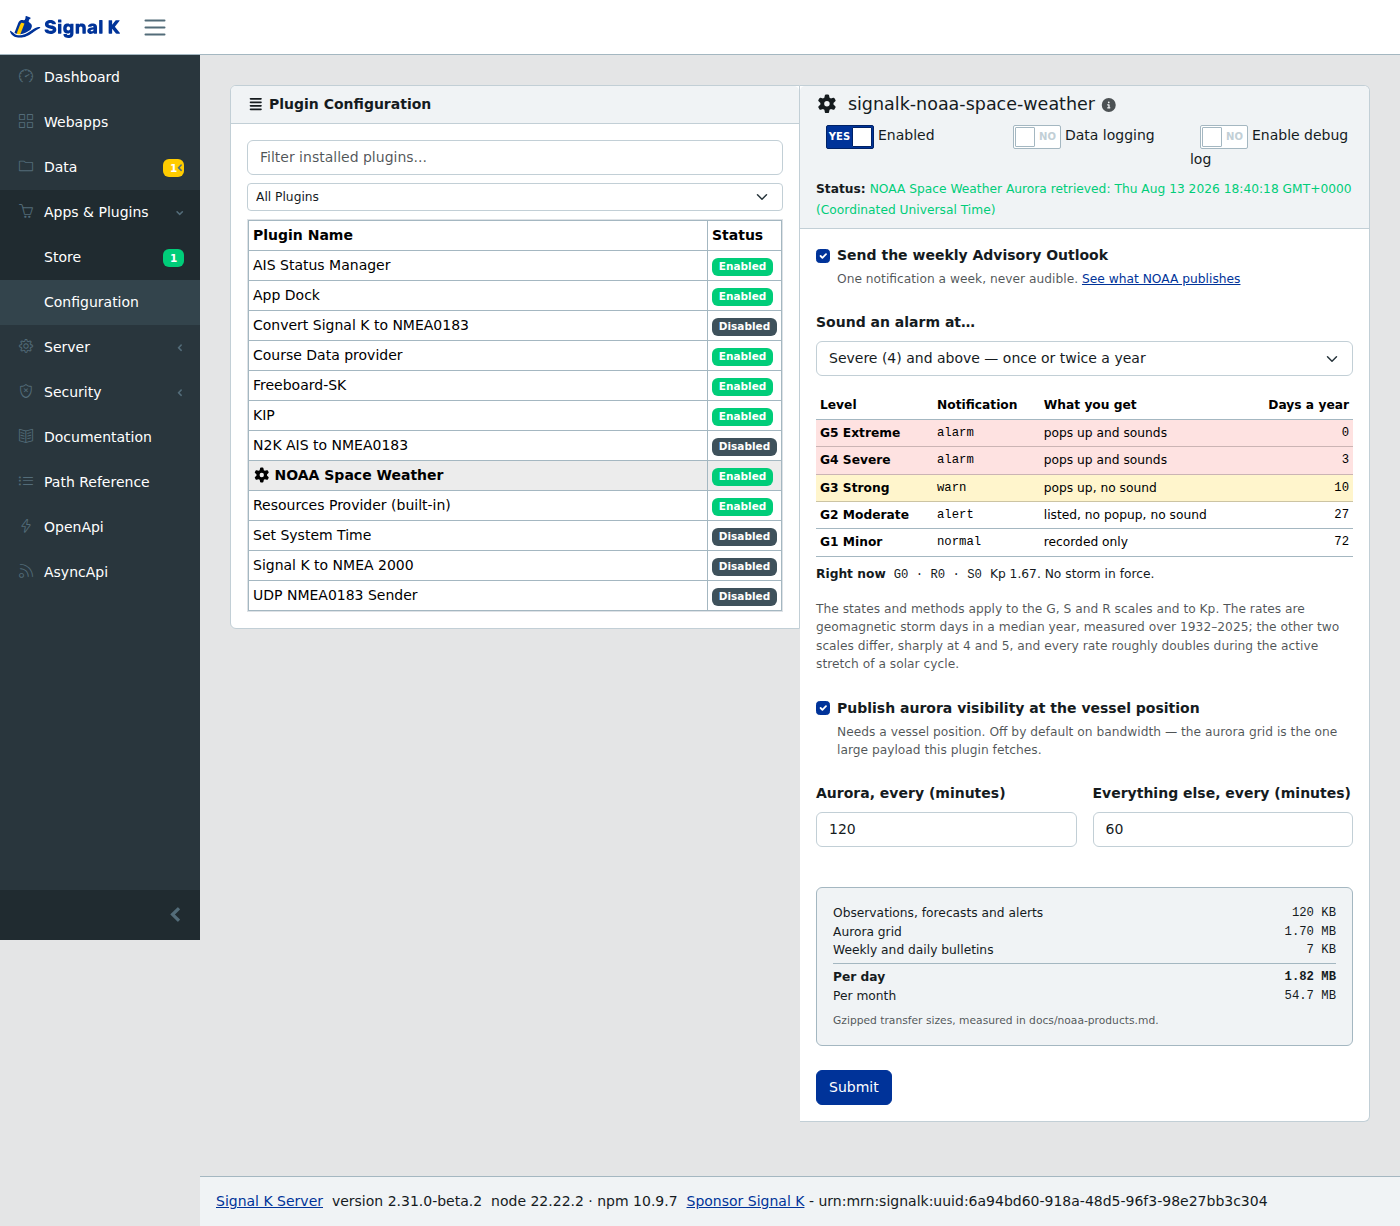
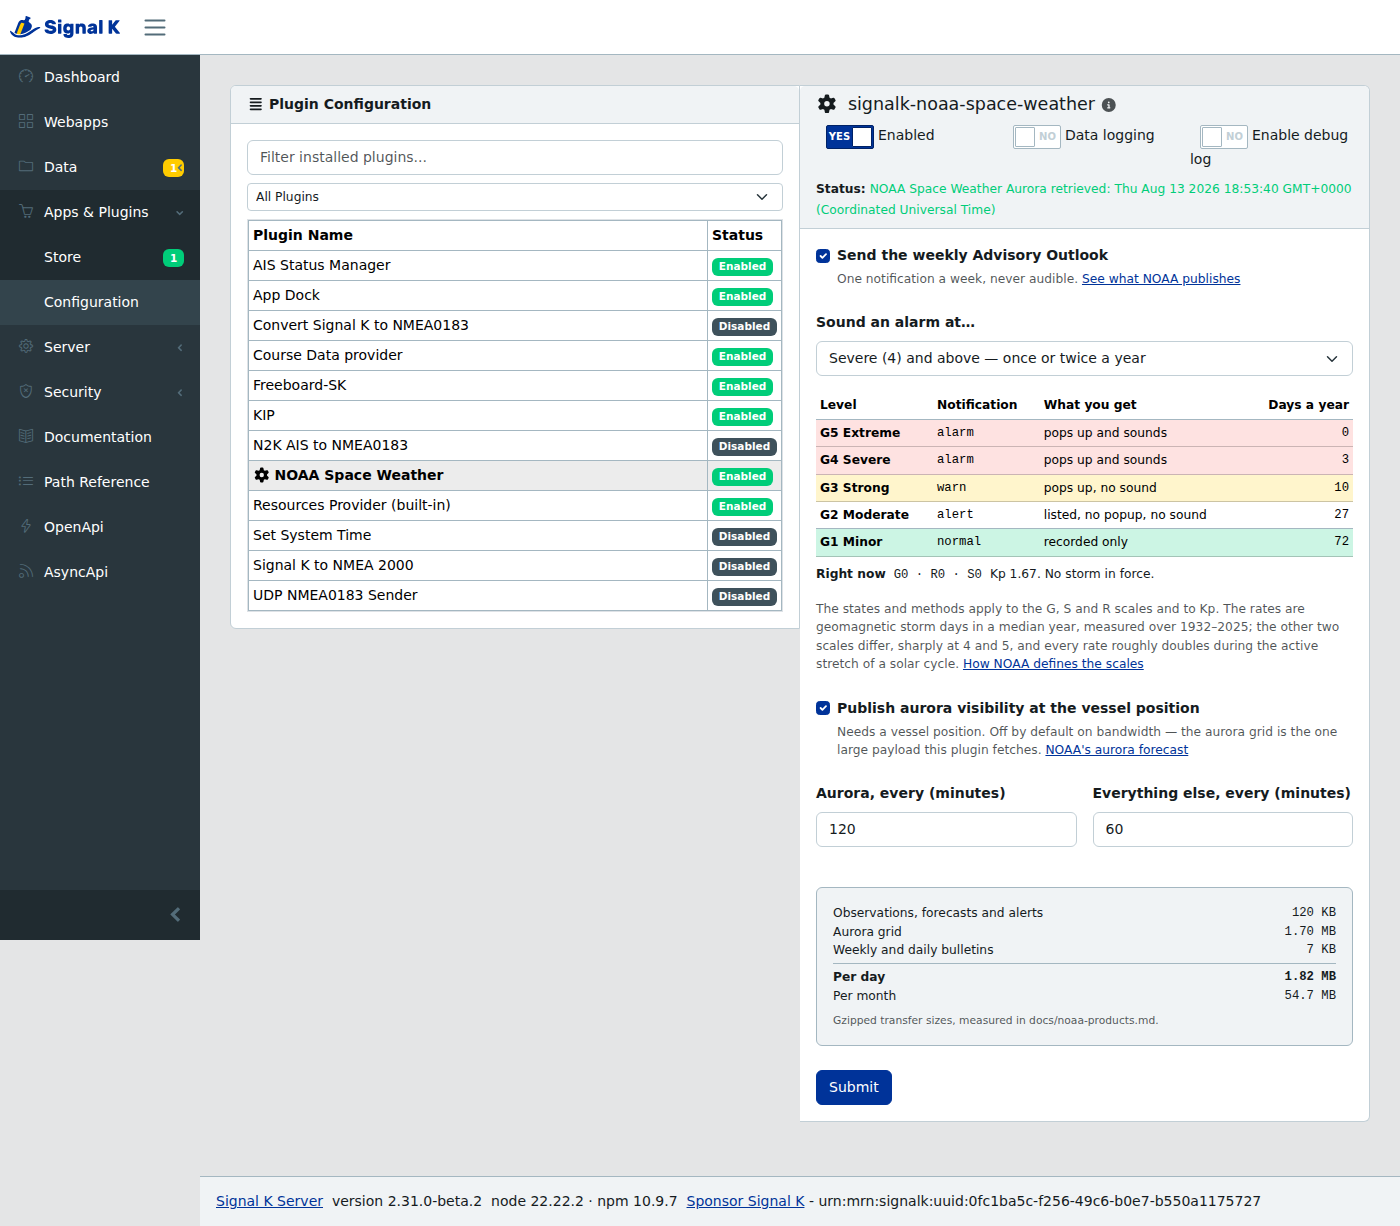
feat(config): link NOAA's own pages, and green the quiet rows
Three settings now say where the thing they control comes from: the
advisory outlook already linked NOAA's bulletin page, and the alarm
ladder and the aurora checkbox now link the scales explanation and the
aurora forecast. All three go through one component, all three to the
human-facing spaceweather.gov pages rather than the machine feeds under
services.*, matching the split the rest of the repo already uses.

The `normal` rows go green. They were grey, which reads as "disabled"
when what they actually mean is "seen, written down, deliberately quiet"
-- at the default alarm level that is G1 and G2, a quarter of all days,
and the reader should be able to tell at a glance that nothing is wrong
with them.

Also corrects the one illustrative figure still in the changelog: adding
the bulletins row moved the fifteen-minute example from 13.6 MB a day to
13.7, and 411 MB a month to 411.5. Computed from `dailyKb`, not rounded
by hand.

diff --git a/public/remoteEntry.js b/public/remoteEntry.js
@@ -53,6 +53,12 @@ const KP_URL = `${API}/vessels/self/environment/noaa/swpc/kp`
 // checkbox can show what it is offering rather than only naming it.
 const ADVISORY_OUTLOOK_URL =
   'https://www.spaceweather.gov/products/space-weather-advisory-outlook'
+// NOAA's own explanation of the G/S/R scales the ladder is built on, and of
+// the aurora forecast behind the grid. Both are the human-facing
+// spaceweather.gov pages rather than the machine feeds under services.*.
+const NOAA_SCALES_URL = 'https://www.spaceweather.gov/noaa-scales-explanation'
+const AURORA_URL =
+  'https://www.spaceweather.gov/communities/aurora-dashboard-experimental'
 
 let React = null
 
@@ -132,6 +138,10 @@ function createPanel(React) {
       help && h('div', { className: 'form-text' }, help)
     )
 
+  /** A link out to NOAA, opened away from the admin UI. */
+  const NoaaLink = ({ href, text }) =>
+    h('a', { href, target: '_blank', rel: 'noopener noreferrer' }, text)
+
   const Check = ({ id, checked, onChange, label, help }) =>
     h(
       'div',
@@ -156,8 +166,11 @@ function createPanel(React) {
     alarm: 'table-danger',
     warn: 'table-warning',
     alert: '',
-    normal: 'text-body-secondary',
-    nominal: 'text-body-secondary'
+    // Green for the rows that do nothing but get written down. It reads as
+    // "fine" rather than as "greyed out", which is what these levels are: a
+    // storm the plugin saw and deliberately stayed quiet about.
+    normal: 'table-success',
+    nominal: 'table-success'
   }
 
   /**
@@ -389,15 +402,10 @@ function createPanel(React) {
           'span',
           null,
           'One notification a week, never audible. ',
-          h(
-            'a',
-            {
-              href: ADVISORY_OUTLOOK_URL,
-              target: '_blank',
-              rel: 'noopener noreferrer'
-            },
-            'See what NOAA publishes'
-          )
+          h(NoaaLink, {
+            href: ADVISORY_OUTLOOK_URL,
+            text: 'See what NOAA publishes'
+          })
         )
       }),
 
@@ -406,12 +414,19 @@ function createPanel(React) {
         {
           label: 'Sound an alarm at…',
           htmlFor: 'noaa-alarm-level',
-          help:
+          help: h(
+            'span',
+            null,
             'The states and methods apply to the G, S and R scales and to Kp.' +
-            ' The rates are geomagnetic storm days in a median year, measured' +
-            ' over 1932–2025; the other two scales differ, sharply at 4 and 5,' +
-            ' and every rate roughly doubles during the active stretch of a' +
-            ' solar cycle.'
+              ' The rates are geomagnetic storm days in a median year,' +
+              ' measured over 1932–2025; the other two scales differ, sharply' +
+              ' at 4 and 5, and every rate roughly doubles during the active' +
+              ' stretch of a solar cycle. ',
+            h(NoaaLink, {
+              href: NOAA_SCALES_URL,
+              text: 'How NOAA defines the scales'
+            })
+          )
         },
         h(
           'div',
@@ -446,9 +461,13 @@ function createPanel(React) {
         checked: settings.auroraEnabled,
         onChange: (value) => set('auroraEnabled', value),
         label: 'Publish aurora visibility at the vessel position',
-        help:
-          'Needs a vessel position. Off by default on bandwidth — the' +
-          ' aurora grid is the one large payload this plugin fetches.'
+        help: h(
+          'span',
+          null,
+          'Needs a vessel position. Off by default on bandwidth — the aurora' +
+            ' grid is the one large payload this plugin fetches. ',
+          h(NoaaLink, { href: AURORA_URL, text: "NOAA's aurora forecast" })
+        )
       }),
 
       h(

diff --git a/CHANGELOG.md b/CHANGELOG.md
@@ -18,14 +18,17 @@ observe, so internal plumbing lands in a patch even when it adds something.
   the screen can now compute, and that it is laid out for the reading rather
   than for the schema. The weekly Advisory Outlook leads, since it is the one
   choice that needs no arithmetic, and its label links NOAA's own page so a
-  bulletin can be read before deciding to receive them.
+  bulletin can be read before deciding to receive them. The alarm ladder and
+  the aurora setting link NOAA's pages for the scales and the aurora forecast
+  the same way.
 
   What it computes first is the download budget. Under the two interval fields
   is a running total: what the observations, forecasts and alerts cost per day,
   what the aurora grid costs per day, what the weekly and daily bulletins cost
   on their own cadence — a floor of a few KB that neither interval moves — and
-  all of it per day and per month. It moves as you type. Set aurora to every fifteen minutes and it says 13.6 MB
-  a day and 411 MB a month, before you save.
+  all of it per day and per month. It moves as you type. Set aurora to every
+  fifteen minutes and it says 13.7 MB a day and 411.5 MB a month, before you
+  save.
 
   That number was previously a sentence — "about 1.7 MB a day" — which was true
   at the default two-hour interval and silently wrong at every other. Anyone
